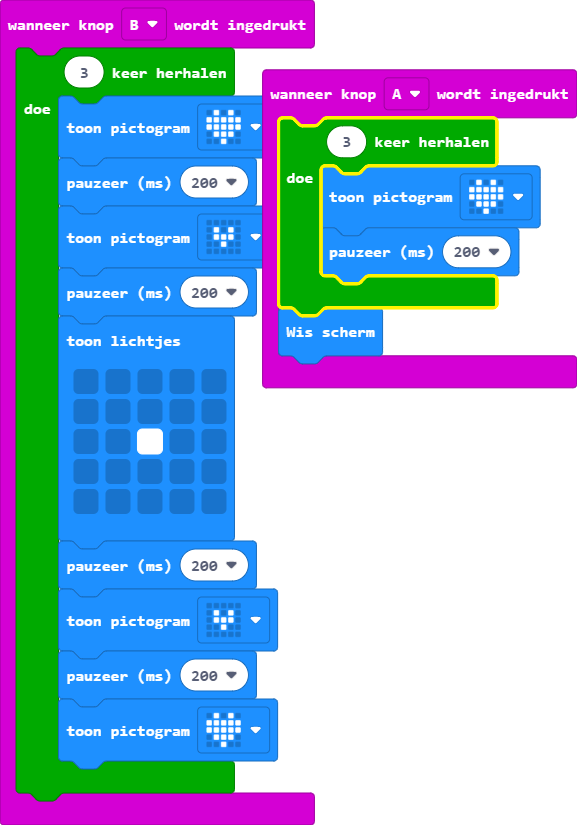
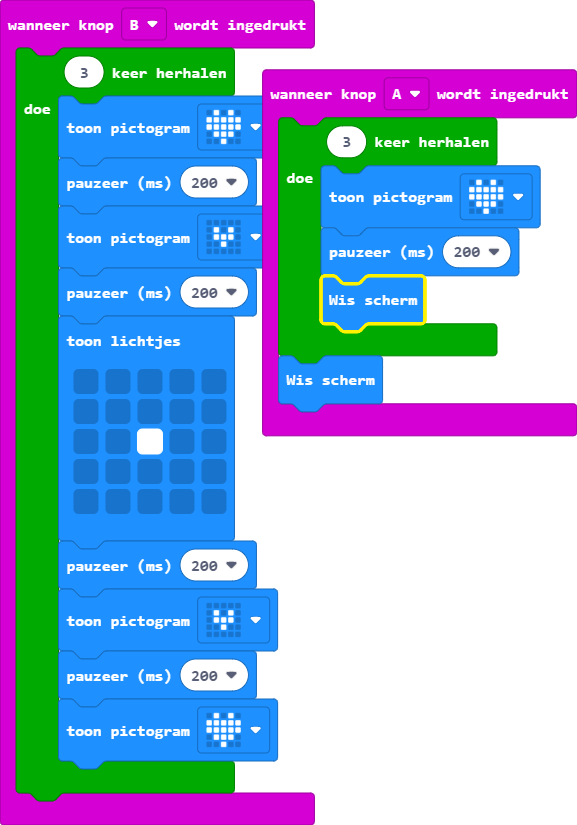
werkend

Changed region(s): [[0.4367, 0.1212, 1.0, 0.5455]]

diff --git a/main.ts b/main.ts
@@ -2,6 +2,7 @@ input.onButtonPressed(Button.A, function () {
     for (let index = 0; index < 3; index++) {
         basic.showIcon(IconNames.Heart)
         basic.pause(200)
+        basic.clearScreen()
     }
     basic.clearScreen()
 })
